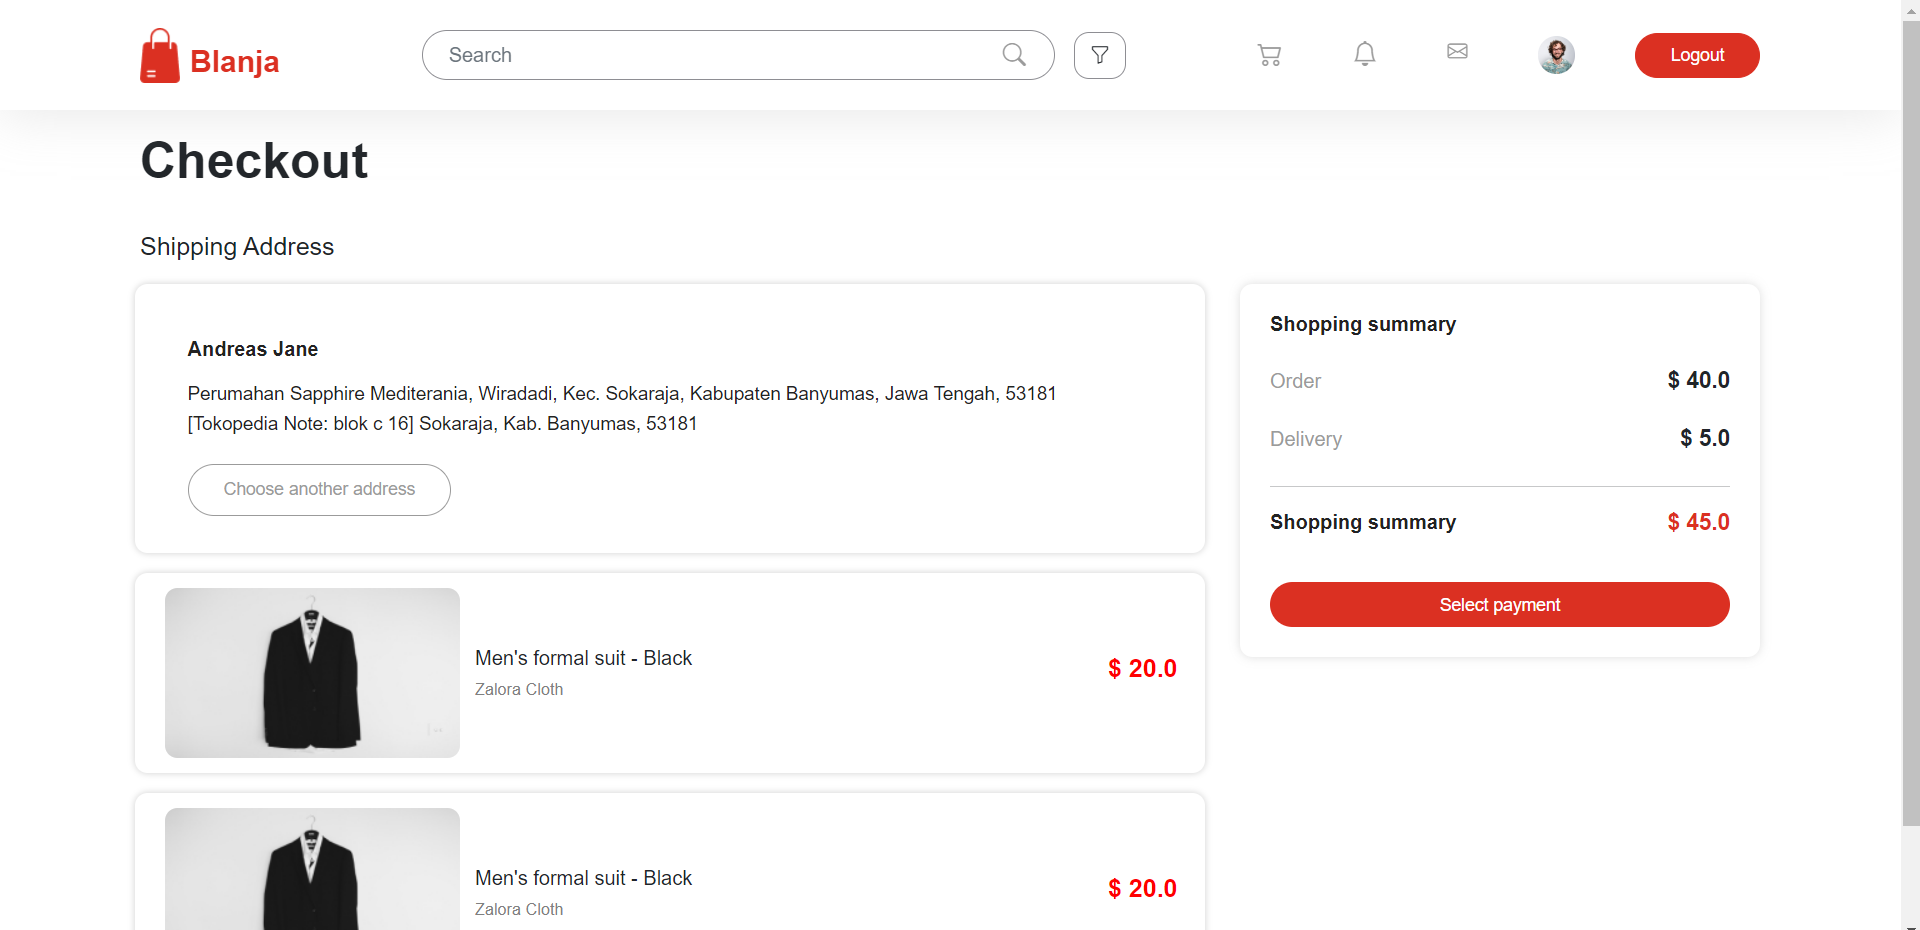
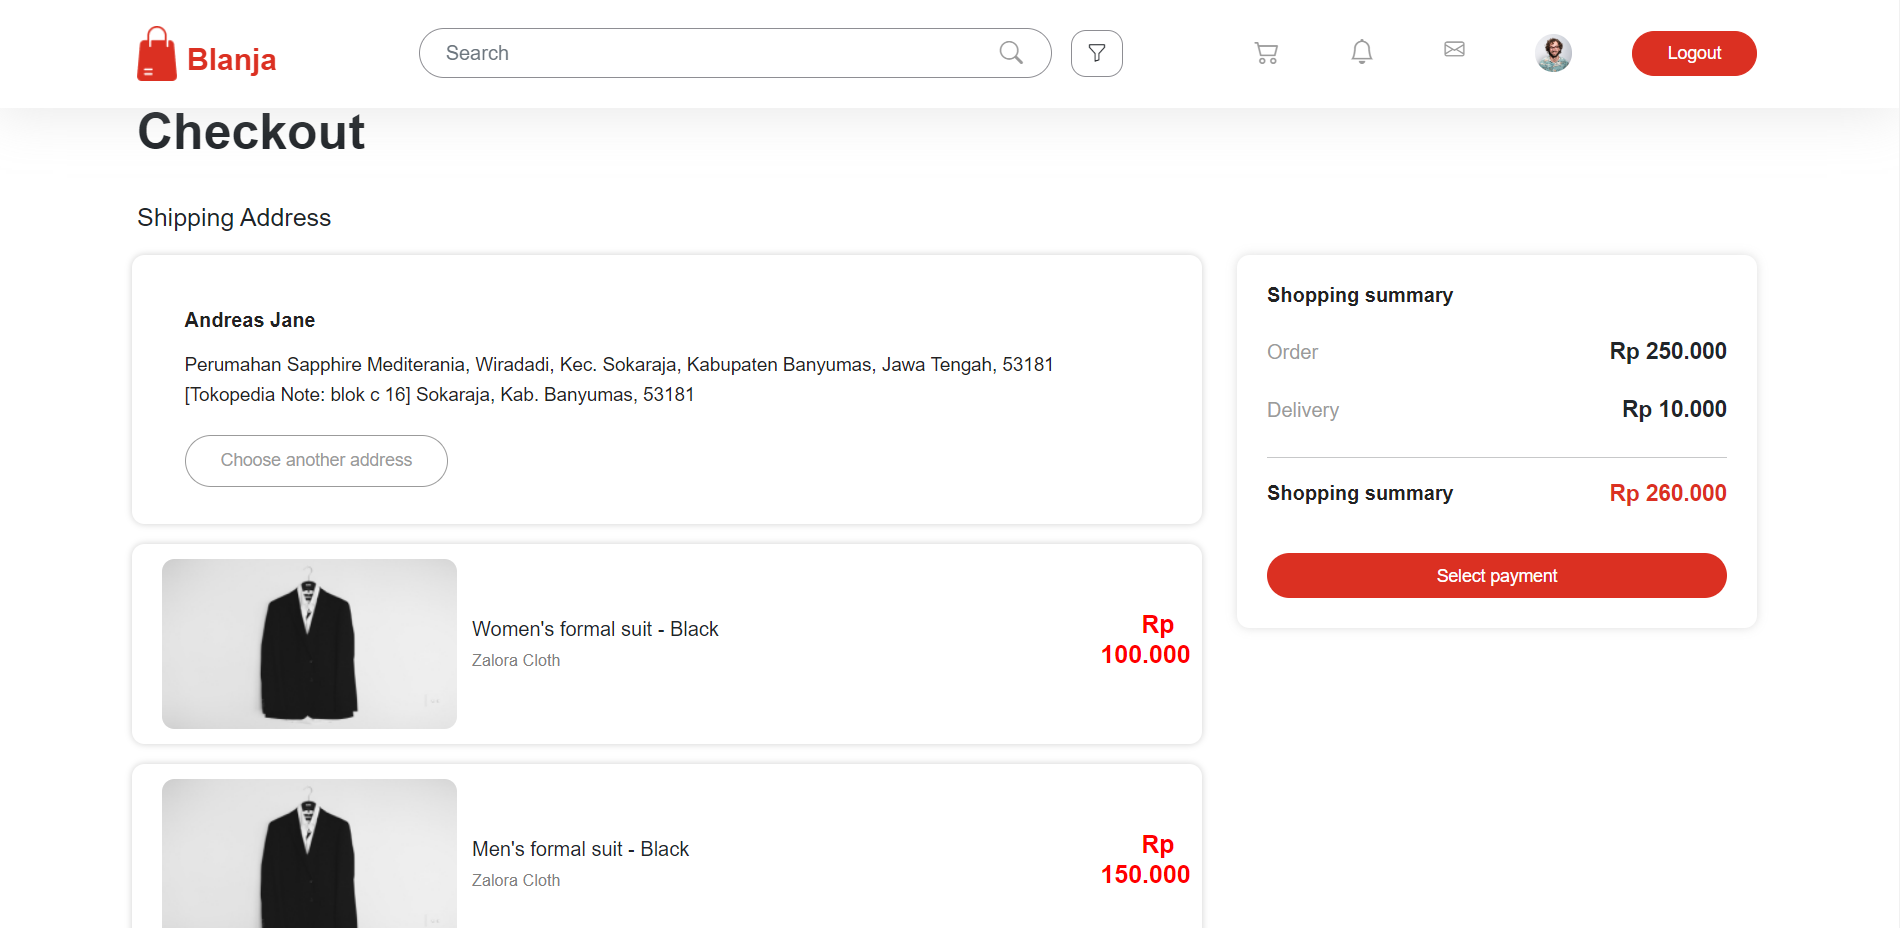
new update readme

diff --git a/src/components/cart/Cart.jsx b/src/components/cart/Cart.jsx
@@ -38,11 +38,11 @@ const Cart = () => {
                       <input style={{ width: '16px' }} className="form-check-input" type="checkbox" value="" id="defaultCheck1" />
                       <label className="form-check-label ms-2" for="defaultCheck1">
                         <div style={{ padding: '12px' }}>
-                          <img style={{ borderRadius: '10px' }} src={require('../../assets/img/jas.png')} alt="" />
+                          <img style={{ borderRadius: '10px', width: '230px' }} src={require('../../assets/img/jas.png')} alt="" />
                         </div>
                       </label>
                       <div className="name">
-                        Men's formal suit - Black
+                        Women's formal suit - Black
                         <br />
                         <span style={{ fontSize: '13px', color: 'gray' }}>Zalora Cloth</span>
                       </div>
@@ -50,11 +50,11 @@ const Cart = () => {
                   </div>
                   <div className="col-3 col-xxl-2 col-xl-2 col-lg-2 col-md-2 col-sm-3  ms-auto text-end d-flex justify-content-around align-items-center">
                     <button style={{ width: '35px', height: '35px', backgroundColor: 'antiquewhite', borderRadius: '100%', border: 'none' }}>-</button>
-                    <p style={{ paddingTop: '15px' }}>2</p>
+                    <p style={{ paddingTop: '15px' }}>1</p>
                     <button style={{ width: '35px', height: '35px', backgroundColor: 'antiquewhite', borderRadius: '100%', border: 'none' }}>+</button>
                   </div>
                   <div className="col-1 col-xxl-1 col-xl-1 col-lg-1 col-md-1 col-sm-1  ms-auto text-end">
-                    <h5 style={{ color: 'red', fontWeight: '700', paddingRight: '10px' }}>$ 20.0</h5>
+                    <h5 style={{ color: 'red', fontWeight: '700', paddingRight: '10px' }}>Rp 100.000</h5>
                   </div>
                 </div>
               </div>
@@ -65,7 +65,7 @@ const Cart = () => {
                       <input style={{ width: '16px' }} className="form-check-input" type="checkbox" value="" id="defaultCheck1" />
                       <label className="form-check-label ms-2" for="defaultCheck1">
                         <div style={{ padding: '12px' }}>
-                          <img style={{ borderRadius: '10px' }} src={require('../../assets/img/jas.png')} alt="" />
+                          <img style={{ borderRadius: '10px', width: '230px' }} src={require('../../assets/img/jas.png')} alt="" />
                         </div>
                       </label>
                       <div className="name">
@@ -77,11 +77,11 @@ const Cart = () => {
                   </div>
                   <div className="col-3 col-xxl-2 col-xl-2 col-lg-2 col-md-2 col-sm-3  ms-auto text-end d-flex justify-content-around align-items-center">
                     <button style={{ width: '35px', height: '35px', backgroundColor: 'antiquewhite', borderRadius: '100%', border: 'none' }}>-</button>
-                    <p style={{ paddingTop: '15px' }}>2</p>
+                    <p style={{ paddingTop: '15px' }}>1</p>
                     <button style={{ width: '35px', height: '35px', backgroundColor: 'antiquewhite', borderRadius: '100%', border: 'none' }}>+</button>
                   </div>
                   <div className="col-1 col-xxl-1 col-xl-1 col-lg-1 col-md-1 col-sm-1  ms-auto text-end">
-                    <h5 style={{ color: 'red', fontWeight: '700', paddingRight: '10px' }}>$ 20.0</h5>
+                    <h5 style={{ color: 'red', fontWeight: '700', paddingRight: '10px' }}>Rp 150.000</h5>
                   </div>
                 </div>
               </div>
@@ -94,7 +94,7 @@ const Cart = () => {
                     <h5>Shopping summary</h5>
                     <div className={`${style.price}`}>
                       <p>Total Price</p>
-                      <p className={`${style.money}`}>$40.5</p>
+                      <p className={`${style.money}`}>Rp 250.000</p>
                     </div>
                     <div className={`${style.btnBuy} d-grid mx-2`}>
                       <Link clasName="btn" to="/Checkout">

diff --git a/src/pages/checkout/Summary/Summary.jsx b/src/pages/checkout/Summary/Summary.jsx
@@ -1,5 +1,5 @@
-import React from "react";
-import './Summary.css'
+import React from 'react';
+import './Summary.css';
 
 const Summary = () => {
   return (
@@ -9,24 +9,19 @@ const Summary = () => {
         <section className="sum-price">
           <section className="price order">
             <p id="title-price">Order</p>
-            <p id="price">$ 40.0</p>
+            <p id="price">Rp 250.000</p>
           </section>
           <section className="price delivery">
             <p id="title-price">Delivery</p>
-            <p id="price">$ 5.0</p>
+            <p id="price">Rp 10.000</p>
           </section>
         </section>
         <hr className="line-sum" />
         <section className="price total">
           <p className="title-summary">Shopping summary</p>
-          <p id="result-price">$ 45.0</p>
+          <p id="result-price">Rp 260.000</p>
         </section>
-        <button
-          type="button"
-          className="btn__payment"
-          data-bs-toggle="modal"
-          data-bs-target="#select-payment"
-        >
+        <button type="button" className="btn__payment" data-bs-toggle="modal" data-bs-target="#select-payment">
           Select payment
         </button>
       </main>

diff --git a/src/pages/checkout/Item/Item.jsx b/src/pages/checkout/Item/Item.jsx
@@ -10,13 +10,13 @@ const Item = () => {
               <img style={{ borderRadius: '10px' }} src={require('../../../assets/img/jas.png')} alt="" />
             </div>
             <div className="name">
-              Men's formal suit - Black
+              Women's formal suit - Black
               <br />
               <span style={{ fontSize: '13px', color: 'gray' }}>Zalora Cloth</span>
             </div>
           </div>
           <div className="col-1 col-xxl-1 col-xl-1 col-lg-1 col-md-1 col-sm-1  ms-auto text-end">
-            <h5 style={{ color: 'red', fontWeight: '700', paddingRight: '10px' }}>$ 20.0</h5>
+            <h5 style={{ color: 'red', fontWeight: '700', paddingRight: '10px' }}>Rp 100.000</h5>
           </div>
         </div>
       </div>
@@ -33,7 +33,7 @@ const Item = () => {
             </div>
           </div>
           <div className="col-1 col-xxl-1 col-xl-1 col-lg-1 col-md-1 col-sm-1  ms-auto text-end">
-            <h5 style={{ color: 'red', fontWeight: '700', paddingRight: '10px' }}>$ 20.0</h5>
+            <h5 style={{ color: 'red', fontWeight: '700', paddingRight: '10px' }}>Rp 150.000</h5>
           </div>
         </div>
       </div>
